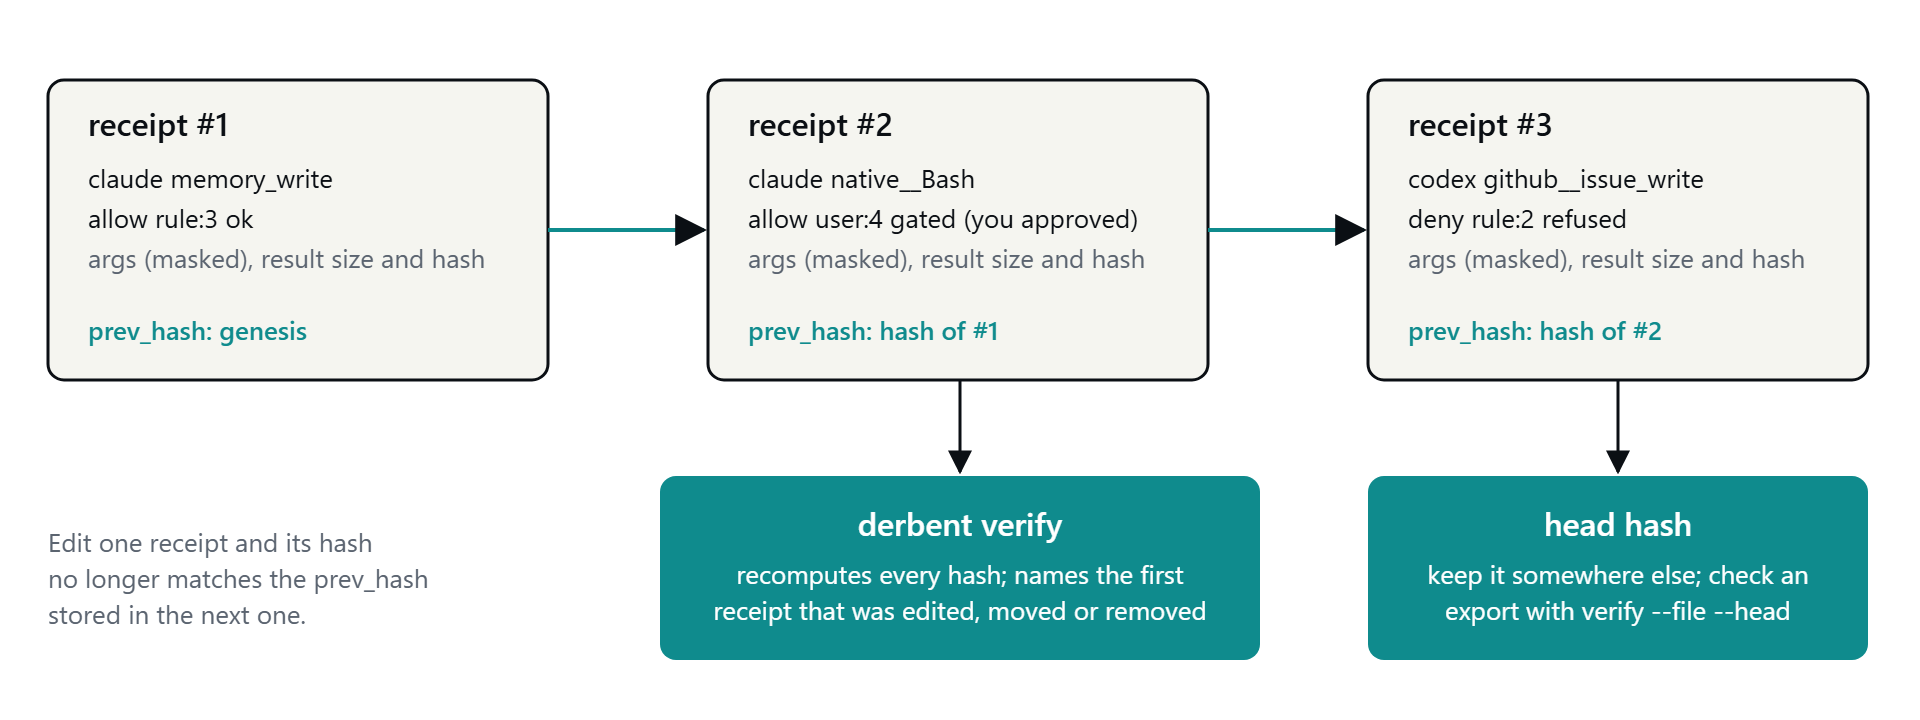
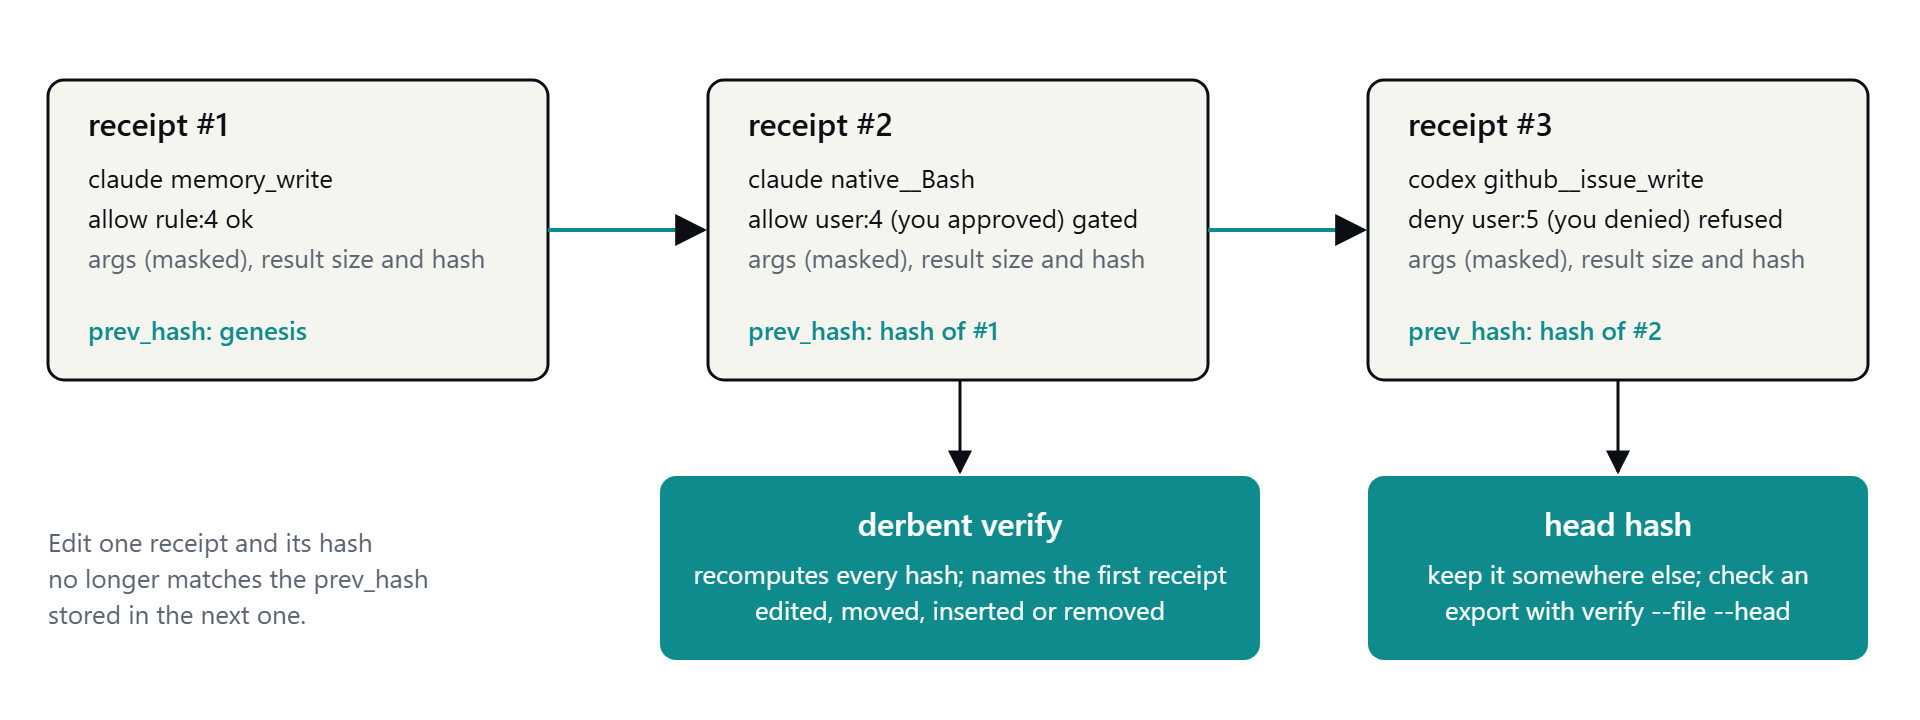
Match the receipt diagram to the README's example rules, and bring back the README clauses on prefix allows, pins and what the gate spends its time on

Changed region(s): [[0.3438, 0.7944, 0.6562, 0.8861], [0.7812, 0.275, 0.9375, 0.3361], [0.4688, 0.275, 0.5938, 0.3361]]

diff --git a/README.md b/README.md
@@ -24,12 +24,13 @@ is the only shared state ([ADR 0001](docs/adr/0001-no-daemon.md)).
 - **One gate for four CLIs.** The same rules apply to MCP tools and to built-in tools such as the shell.
 - **Rules that allow, deny or ask**, by agent, tool and argument. The first match wins.
 - **Approvals.** A call your rules ask about waits until you press `a` in the terminal UI, or is denied
-  after 50 seconds.
+  after 50 seconds by default.
 - **Receipts.** Every call gets a hash-chained receipt, and `derbent verify` names the first receipt
-  that was edited, moved, inserted or removed.
+  that was edited, moved, inserted or removed. Keep the head hash it prints to catch the newest ones
+  being deleted too.
 - **Shared memory and handoffs.** Agents keep notes per repository and can leave tasks for each other.
 - **Guards for the long run:** budgets for agents stuck in a loop, pins that hold back a server's tool
-  when its description changes, and project rules a repository can use to be stricter.
+  when its definition changes, and project rules a repository can use to be stricter.
 
 ## Install
 
@@ -63,46 +64,34 @@ derbent                          # open the terminal UI in a terminal of its own
 ```
 
 `derbent init` shows every change and asks once before it makes any. It copies each file it changes
-first and never replaces an entry you already have. With `--dry-run` it only shows the changes. Here is
-the part for Claude Code and the config, from a real run with the paths shortened:
+first and never replaces an entry you already have. With `--dry-run` it only shows the changes. Two of
+them, from a real run with the paths shortened:
 
 ```text
 claude: ~/.claude.json
   copied first to ~/.claude.json.derbent-backup-20260930T205424Z
   runs:
     claude mcp add --scope user derbent -- ~/bin/derbent mcp --agent claude
-claude: ~/.claude/settings.json
-  copied first to ~/.claude/settings.json.derbent-backup-20260930T205424Z
-  adds:
-    {
-      "hooks": [
-        {
-          "args": [
-            "gate",
-            "--agent",
-            "claude"
-          ],
-          "command": "~/bin/derbent",
-          "type": "command"
-        }
-      ],
-      "matcher": "*"
-    }
 derbent: ~/.config/derbent/config.toml
   a new file
   adds the balanced preset (derbent init --preset balanced --print shows it)
 ```
 
-Start your agents as usual. Their calls now appear in the UI, and calls the rules ask about wait there for
-you. Only Claude Code has been checked in real sessions; the entries for the other three CLIs follow
-their documentation (see [Built-in tools](docs/built-in-tools.md)).
+It also adds the `derbent gate` hook to each CLI's settings; [Install and set up](docs/install.md) shows
+every entry. Start your agents as usual. Their calls now appear in the UI, and calls the rules ask about
+wait there for you. Only Claude Code has been checked in real sessions; the entries for the other three
+CLIs follow their documentation (see [Built-in tools](docs/built-in-tools.md)).
+
+To put your other MCP servers behind the gate, so each agent needs only the one `derbent` entry, see
+[Downstream servers](docs/servers.md).
 
 ## How a call is decided
 
 ![A tool call is checked against your rules, where the first match wins, then against the project's rules, which can only make it stricter, then against budgets; the result is allow, ask, which waits for you, or deny, and every call gets one receipt](docs/assets/diagrams/how-a-call-is-decided.png)
 
 Rules live in `config.toml` in your user config directory (`%AppData%\derbent\` on Windows,
-`~/.config/derbent/` on Linux, `~/Library/Application Support/derbent/` on macOS):
+`~/.config/derbent/` on Linux, `~/Library/Application Support/derbent/` on macOS). A downstream MCP
+server's tools are named `<server>__<tool>`, and a CLI's built-in tools `native__<tool>`:
 
 ```toml
 [[rule]]
@@ -129,8 +118,8 @@ To see how a call would be decided before it happens:
 derbent explain --agent claude --tool native__Bash --args '{"command":"git push origin main"}'
 ```
 
-It prints each rule and why it matches or not, down to the first match, and ends with `ask (rule:3)` for
-this call under the rules above. [Rules](docs/rules.md) covers globs, the three presets (`watch`,
+It prints each rule and why it matches or not, down to the first match, then the project's rules,
+budgets, pin and grant, and ends with `verdict:  ask (rule:3)` for this call under the rules above. [Rules](docs/rules.md) covers globs, the three presets (`watch`,
 `balanced`, `strict`), project rules, budgets and rule suggestions.
 
 ## Receipts
@@ -178,8 +167,9 @@ from [docs/benchmark-results](docs/benchmark-results/README.md):
 | Starting the binary and exiting | 4.316 ms | 46.91 ms |
 | Hook call, `derbent gate`, allowed | 7.381 ms | 83.03 ms |
 
-The gate adds about half a millisecond to an MCP call. A hook call costs about 3 ms more than starting the
-binary on Linux and 36 ms more on Windows, where most of its cost is the process start. The numbers come
+The gate adds 521 µs to an MCP call on Linux and 680 µs on Windows, for the extra stdio hop, the rule
+decision, the project rules check and the receipt written to SQLite. A hook call costs about 3 ms more
+than starting the binary on Linux and 36 ms more on Windows, where most of its cost is the process start. The numbers come
 from one run on shared runners; the results page has p99, calls per second and the caveats.
 
 ## Limits
@@ -197,12 +187,12 @@ The ones to know first:
 - A receipt export shows its last run unchanged only against a head you kept, and never that nothing was
   left out of it.
 - A suggestion refuses the shells, launchers and operators it knows, but a text rule can be fooled and
-  those lists cannot be complete.
+  those lists cannot be complete, and an `allow` for a command prefix lets any options through.
 - A handoff's address is a label, not an identity: any agent that can call `handoff_take` can claim every
   open handoff addressed to `*`.
 - Approvals depend on you watching. Unattended, `ask` means denied after the timeout.
-- Pins trust the first definition they see, including a new tool that an update adds to a pinned server.
-  A budget can be passed by the calls in flight at the same moment.
+- Pins trust the first definition they see, including a new tool that an update adds to a pinned server,
+  so name the tools you allow for a server whose updates you do not review. A budget can be passed by the calls in flight at the same moment.
 - CI runs the tests on Windows and Linux and only builds on macOS.
 
 ## Docs

diff --git a/docs/memory-and-handoffs.md b/docs/memory-and-handoffs.md
@@ -2,10 +2,10 @@
 
 ## Memory
 
-Every agent now has `memory_write`, `memory_search` and `memory_read`, and a note one agent writes in a
+Every agent gets `memory_write`, `memory_search` and `memory_read`, and a note one agent writes in a
 repository can be found by the others in the same repository. Search is full-text, and results mark
 each note with its author and as a note, not an instruction. `handoff_create`, `handoff_list`,
-`handoff_take` and `handoff_done` let one agent leave a task for another (see [Handoffs](#handoffs)).
+`handoff_take` and `handoff_done` let one agent leave a task for another.
 
 ## Handoffs
 
